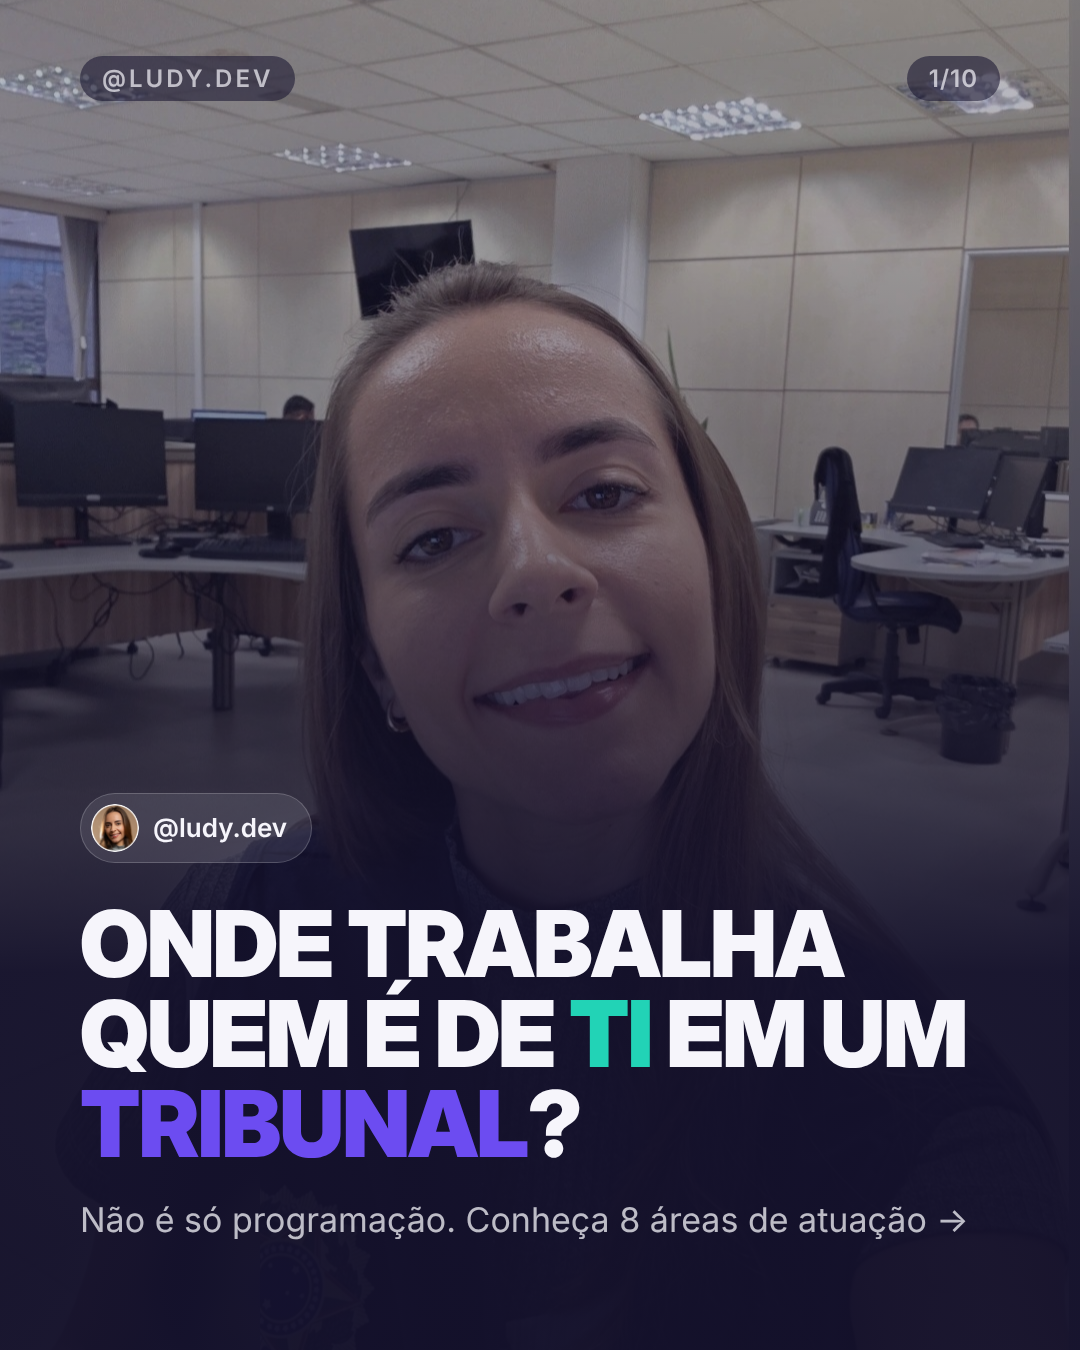
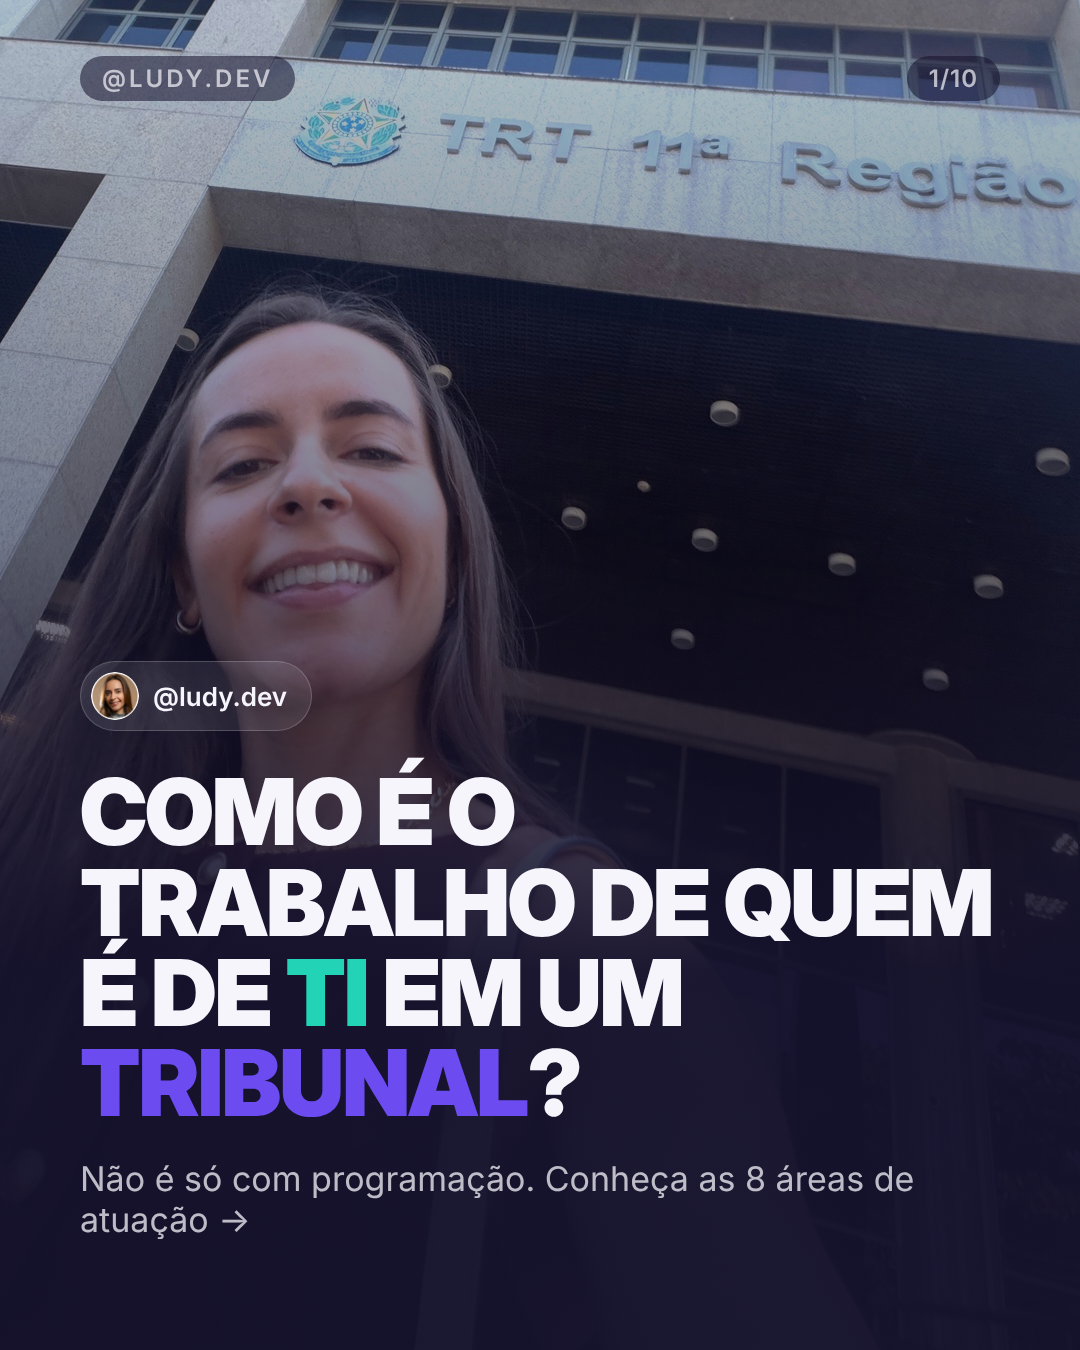
Post 21/10 11h: capa com foto na fachada e novo título
Claude-Session: https://claude.ai/code/session_016ydKq3ZBWwCP8BaeCJ9gie

diff --git a/_ferramentas/posts_2110.py b/_ferramentas/posts_2110.py
@@ -14,8 +14,8 @@ AREAS = [
  ("📝", "Análise de requisitos", "Entende a necessidade das áreas e transforma em requisitos claros para o time de desenvolvimento.", "requisitos"),
 ]
 T = len(AREAS) + 2
-p1 = [page_a(badge() + '<h1>Onde trabalha quem é de <span class="c">TI</span> em um <span class="v">tribunal</span>?</h1>'
-             '<div class="sub">Não é só programação. Conheça 8 áreas de atuação →</div>', 1, T, photo="fotos/ludy-trabalho-tribunal.jpg")]
+p1 = [page_a(badge() + '<h1>Como é o trabalho de quem é de <span class="c">TI</span> em um <span class="v">tribunal</span>?</h1>'
+             '<div class="sub">Não é só com programação. Conheça as 8 áreas de atuação →</div>', 1, T, photo="fotos/ludy-fachada-tribunal.jpg")]
 for i, (icon, nome, desc, f) in enumerate(AREAS, 2):
     p1.append(page_a(f'<span style="font-size:26px;letter-spacing:2px;color:#22D3B6;font-weight:700">ÁREA {i-1} DE 8</span>'
                      f'<h2 style="margin-top:14px">{icon} {nome}</h2><p>{desc}</p>', i, T, top_photo=f"fotos/areas/{f}.jpg", top_h=800))
